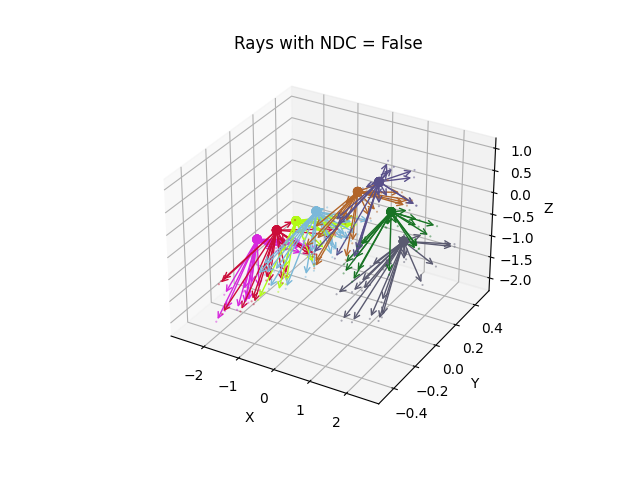
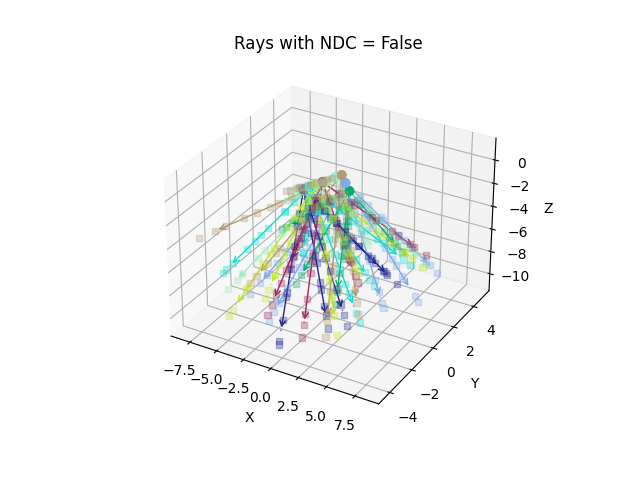
Add test script for ray sampling

diff --git a/test_scripts/test_ray_sampling.py b/test_scripts/test_ray_sampling.py
@@ -15,6 +15,35 @@ from matplotlib.patches import FancyArrowPatch
 from mpl_toolkits.mplot3d import proj3d
 
 
+def stratified_uniform_sampling(
+    rays: torch.Tensor, N_samples: int = 64
+) -> torch.Tensor:
+    # Decompose the inputs
+    N_rays = rays.shape[0]
+    rays_o, rays_d = rays[:, 0:3], rays[:, 3:6]  # both (N_rays, 3)
+    near, far = rays[:, 6:7], rays[:, 7:8]  # both (N_rays, 1)
+
+    # Sample depth points
+    z_steps = torch.linspace(0, 1, N_samples, device=rays.device)  # (N_samples)
+    z_vals = near * (1 - z_steps) + far * z_steps
+
+    z_vals = z_vals.expand(N_rays, N_samples)
+
+    z_vals_mid = 0.5 * (
+        z_vals[:, :-1] + z_vals[:, 1:]
+    )  # (N_rays, N_samples-1) interval mid points
+    # get intervals between samples
+    upper = torch.cat([z_vals_mid, z_vals[:, -1:]], -1)
+    lower = torch.cat([z_vals[:, :1], z_vals_mid], -1)
+    perturb_rand = torch.rand(z_vals.shape, device=rays.device)
+    z_vals = lower + (upper - lower) * perturb_rand
+
+    xyz_coarse_sampled = rays_o.unsqueeze(1) + rays_d.unsqueeze(1) * z_vals.unsqueeze(
+        2
+    )  # (N_rays, N_samples, 3)
+    return xyz_coarse_sampled.view(-1, 3)
+
+
 class Arrow3D(FancyArrowPatch):
     def __init__(self, xs, ys, zs, *args, **kwargs):
         FancyArrowPatch.__init__(self, (0, 0), (0, 0), *args, **kwargs)
@@ -39,6 +68,18 @@ def prepare_data(hparams):
         kwargs["use_NDC"] = not hparams.no_NDC
     train_dataset = dataset(split="train", **kwargs)
     return train_dataset
+
+
+def visual_points(ax: mplot3d.Axes3D, points: torch.Tensor, colors: np.ndarray) -> None:
+    """ Visualize points
+    @param ax: matplotlib axes
+    @param points: (N, 3)
+    @param colors: (N, 3)
+    """
+    points = points.numpy()
+    ax.scatter(
+        points[:, 0], points[:, 1], points[:, 2], alpha=0.3, marker="s", s=20, c=colors
+    )
 
 
 def visual_rays(ax: plt.axes, rays: torch.Tensor, colors: np.ndarray = None) -> None:
@@ -68,6 +109,8 @@ def visual_rays(ax: plt.axes, rays: torch.Tensor, colors: np.ndarray = None) -> 
     # Get the near and far
     near = near.numpy()
     far = far.numpy()
+    # Add
+    directions = directions * (far - near)
 
     # Plot the rays
     # Plot origins
@@ -127,11 +170,17 @@ def test_ray_sampling(hparams: NamedTuple):
         ]  # Limit to 100 lines
         print(f"[Info] cam {i+1}th| totally {len(rays)} rays")
         perm = torch.randperm(rays.size(0))
-        idx = perm[:20]
+        idx = perm[:5]
         rays = rays[idx]
         colors = np.tile(color, (rays.size(0), 1))
         visual_rays(ax, rays, colors)
         print(f"[Info] cam {i+1}th| Display {len(rays)} rays")
+
+        # Sample N_sample points per ray
+        xyz_sampled = stratified_uniform_sampling(rays, hparams.N_samples)
+        print(f"[Info] cam {i+1}th| sampled {hparams.N_samples} points")
+        colors = np.tile(color, (xyz_sampled.size(0), 1))
+        visual_points(ax, xyz_sampled, colors)
     ax.set_xlabel("X")
     ax.set_ylabel("Y")
     ax.set_zlabel("Z")
@@ -150,5 +199,6 @@ if __name__ == "__main__":
     hparams.no_NDC = True  # Use NDC
     hparams.root_dir = ROOT_DIR
     hparams.img_wh = (IMG_W, IMG_H)
+    hparams.N_samples = 10
 
     test_ray_sampling(hparams)
